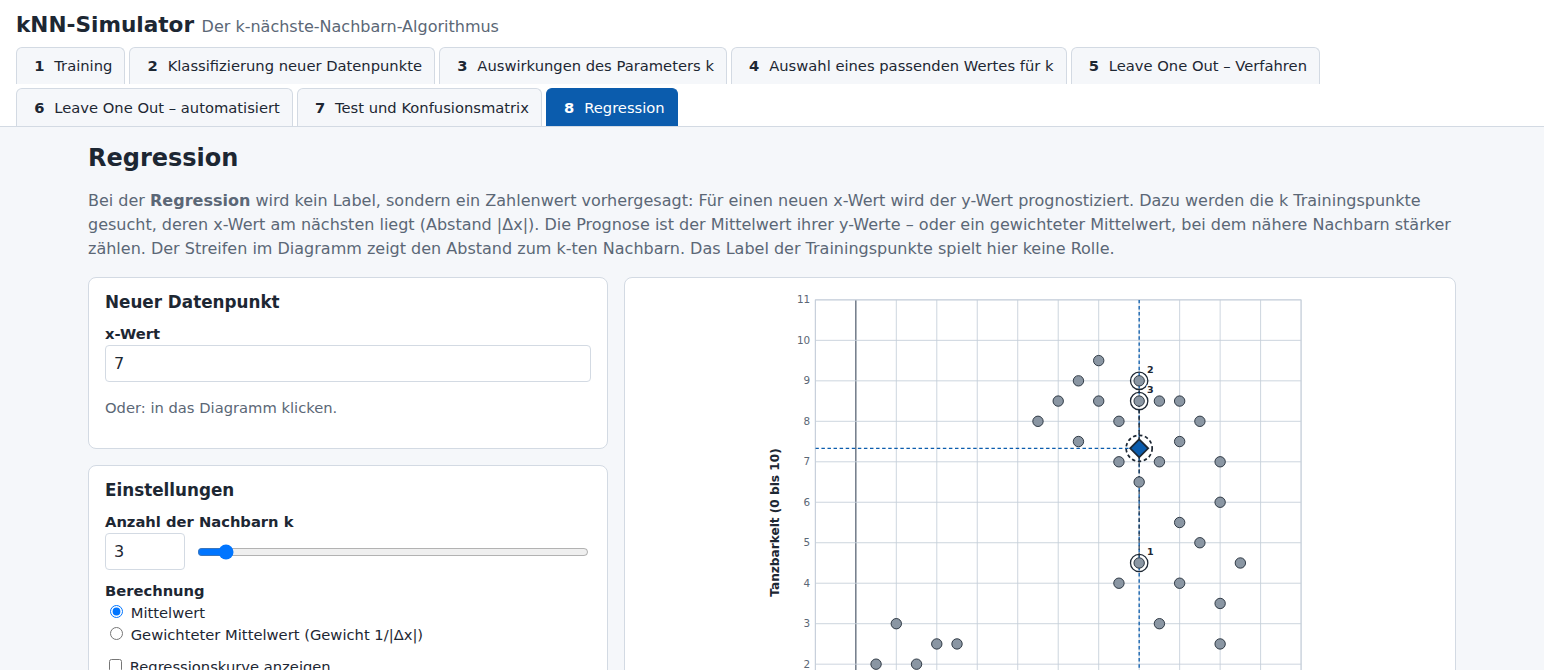
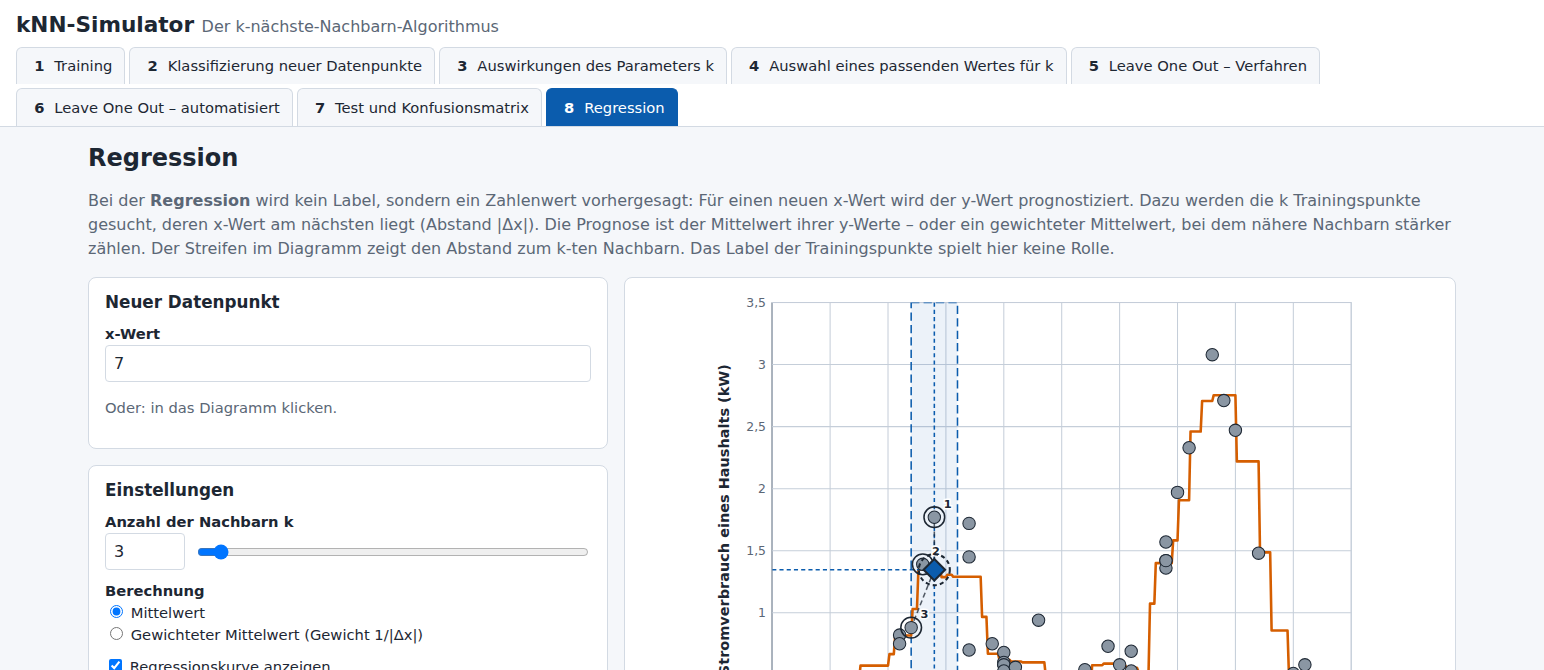
feat(knn): independent axis scales on the regression page
Page 8 uses a separate scale for x and y (view.fit in chart.js) so data
with different magnitudes fills the plot: nice tick steps (1/2/2.5/5·10^n),
non-negative axes start at 0, band width and click mapping use the x
scale. Pages 1-7 keep equal scaling. Preview image 04 now shows the
power consumption data set.

Changed region(s): [[0.4663, 0.4478, 0.8705, 1.0], [0.1244, 0.806, 0.1554, 0.8358], [0.0622, 0.9851, 0.0933, 1.0]]

diff --git a/kNN algorithm/src/js/chart.js b/kNN algorithm/src/js/chart.js
@@ -14,6 +14,9 @@
  *     die Klassen auch bei Farbsehschwäche unterscheidbar sind.
  *   - Regression (Seite 8): einheitliche Punkte, Streifen x ± |Δx| zum k-ten
  *     Nachbarn, prognostizierter Punkt, optional die Regressionskurve.
+ *     Dort sind die Achsen getrennt skaliert (view.fit), damit Daten mit
+ *     verschiedenen Größenordnungen (z. B. Uhrzeit und kW) die Fläche füllen;
+ *     Abstände werden auf dieser Seite nur in x-Richtung gemessen.
  *   - Optionale Ebenen: Metrik-Form (Kreis bei euklidischer, Raute bei
  *     Manhattan-Metrik; Radius = Abstand zum k-ten Nachbarn), Linien zu den
  *     Nachbarn (bei Manhattan als Weg entlang der Achsen), Rangnummern,
@@ -191,6 +194,84 @@
    * @param {number} minPixels - Mindestabstand.
    * @returns {number} Beschriftungsabstand.
    */
+  /** Zeichenfläche bei getrennt skalierten Achsen (viewBox-Einheiten). */
+  const FIT_WIDTH = 560;
+  const FIT_HEIGHT = 420;
+
+  /**
+   * Wählt einen „schönen“ Schritt (1, 2, 2,5 oder 5 · 10ⁿ), sodass die Spannweite
+   * in höchstens maxSteps Abschnitte zerfällt.
+   * @param {number} span - Spannweite (> 0).
+   * @param {number} maxSteps - Höchstzahl der Abschnitte.
+   * @returns {number} Schritt.
+   */
+  function niceStep(span, maxSteps) {
+    const raw = span / maxSteps;
+    const pow = Math.pow(10, Math.floor(Math.log10(raw)));
+    for (const m of [1, 2, 2.5, 5, 10]) {
+      if (m * pow >= raw) {
+        return Math.round(m * pow * 1e9) / 1e9;
+      }
+    }
+    return 10 * pow;
+  }
+
+  /**
+   * Vielfache des Schritts von min bis max (gegen Gleitkommafehler gerundet).
+   * @param {number} min - Anfang (Vielfaches von step).
+   * @param {number} max - Ende.
+   * @param {number} step - Schritt.
+   * @returns {number[]} Werte.
+   */
+  function ticks(min, max, step) {
+    const out = [];
+    const n = Math.round((max - min) / step);
+    for (let i = 0; i <= n && i <= 100; i++) {
+      out.push(Math.round((min + i * step) * 1e9) / 1e9);
+    }
+    return out;
+  }
+
+  /**
+   * Wertebereich für getrennt skalierte Achsen (Regression): je Achse ein
+   * „schöner“ Schritt für höchstens 10 Abschnitte, Grenzen auf Vielfache davon
+   * erweitert, kleiner Rand, damit Punkte nicht auf dem Rahmen liegen.
+   *
+   * @param {Array<{x:number, y:number}>} coords - Alle zu zeigenden Koordinaten.
+   * @returns {{xMin:number, xMax:number, yMin:number, yMax:number, xStep:number, yStep:number}} Wertebereich.
+   */
+  function computeFitBounds(coords) {
+    if (coords.length === 0) {
+      return { xMin: 0, xMax: 10, yMin: 0, yMax: 10, xStep: 1, yStep: 1 };
+    }
+    /**
+     * Bereich einer Achse.
+     * @param {number[]} values - Werte.
+     * @returns {{min:number, max:number, step:number}} Bereich mit Schritt.
+     */
+    function axis(values) {
+      let lo = Math.min(...values);
+      let hi = Math.max(...values);
+      if (hi - lo < 1e-9) {
+        lo -= 1;
+        hi += 1;
+      }
+      const pad = (hi - lo) * 0.04;
+      // Nichtnegative Werte (z. B. Preise, Mengen): Achse nicht unter 0 verlängern.
+      lo = lo >= 0 ? Math.max(0, lo - pad) : lo - pad;
+      hi += pad;
+      const step = niceStep(hi - lo, 10);
+      return {
+        min: Math.round(Math.floor(lo / step) * step * 1e9) / 1e9,
+        max: Math.round(Math.ceil(hi / step) * step * 1e9) / 1e9,
+        step
+      };
+    }
+    const ax = axis(coords.map((c) => c.x));
+    const ay = axis(coords.map((c) => c.y));
+    return { xMin: ax.min, xMax: ax.max, yMin: ay.min, yMax: ay.max, xStep: ax.step, yStep: ay.step };
+  }
+
   function chooseLabelStep(unit, minPixels) {
     for (const step of LABEL_STEPS) {
       if (step * unit >= minPixels) {
@@ -242,8 +323,8 @@
     toSvg(x, y) {
       const l = this.layout;
       return {
-        sx: MARGIN.left + (x - l.xMin) * l.unit,
-        sy: MARGIN.top + (l.yMax - y) * l.unit
+        sx: MARGIN.left + (x - l.xMin) * l.xUnit,
+        sy: MARGIN.top + (l.yMax - y) * l.yUnit
       };
     }
 
@@ -279,8 +360,10 @@
       const inside = p.x >= MARGIN.left && p.x <= MARGIN.left + l.width &&
         p.y >= MARGIN.top && p.y <= MARGIN.top + l.height;
       if (inside && this.options.onPlaneClick) {
-        const x = Math.round((l.xMin + (p.x - MARGIN.left) / l.unit) * 10) / 10;
-        const y = Math.round((l.yMax - (p.y - MARGIN.top) / l.unit) * 10) / 10;
+        // Gleich skaliert: auf 0,1 runden; getrennt skaliert: auf ein Zehntel des Gitterschritts.
+        const roundTo = (v, step) => Math.round(Math.round(v / step) * step * 1e6) / 1e6;
+        const x = roundTo(l.xMin + (p.x - MARGIN.left) / l.xUnit, l.fit ? l.xStep / 10 : 0.1);
+        const y = roundTo(l.yMax - (p.y - MARGIN.top) / l.yUnit, l.fit ? l.yStep / 10 : 0.1);
         this.options.onPlaneClick({ x, y });
       }
     }
@@ -319,7 +402,7 @@
       const origin = view.origin || view.query || view.prediction || null;
       const hollowName = view.hollowName || 'Validierungspunkt';
 
-      // --- Layout: gleiche Skalierung in x und y -----------------------------
+      // --- Layout: gleiche Skalierung in x und y (oder getrennt, view.fit) ------
       const coords = points.slice();
       if (view.query) {
         coords.push(view.query);
@@ -329,13 +412,19 @@
       } else if (view.band) {
         coords.push({ x: view.band.x, y: points.length > 0 ? points[0].y : 0 });
       }
-      const b = computeBounds(coords);
+      const fit = view.fit === true;
+      const b = fit ? computeFitBounds(coords) : computeBounds(coords);
       const xSpan = b.xMax - b.xMin;
       const ySpan = b.yMax - b.yMin;
       const unit = PLOT_SIZE / Math.max(xSpan, ySpan);
-      const width = xSpan * unit;
-      const height = ySpan * unit;
-      this.layout = { xMin: b.xMin, xMax: b.xMax, yMin: b.yMin, yMax: b.yMax, unit, width, height };
+      const xUnit = fit ? FIT_WIDTH / xSpan : unit;
+      const yUnit = fit ? FIT_HEIGHT / ySpan : unit;
+      const width = xSpan * xUnit;
+      const height = ySpan * yUnit;
+      this.layout = {
+        xMin: b.xMin, xMax: b.xMax, yMin: b.yMin, yMax: b.yMax, xUnit, yUnit, width, height,
+        fit, xStep: b.xStep || 1, yStep: b.yStep || 1
+      };
       const totalW = MARGIN.left + width + MARGIN.right;
       const totalH = MARGIN.top + height + MARGIN.bottom;
       svg.setAttribute('viewBox', '0 0 ' + fmt(totalW) + ' ' + fmt(totalH));
@@ -357,7 +446,10 @@
       const labelStep = chooseLabelStep(unit, 28);
       const drawMinor = unit >= 3;
       const grid = dom.svgEl('g', { class: 'grid', 'aria-hidden': 'true' });
-      for (let x = b.xMin; x <= b.xMax; x++) {
+      if (fit) {
+        this.renderFitGrid(grid, b, top, bottom, left, right);
+      }
+      for (let x = b.xMin; !fit && x <= b.xMax; x++) {
         const isMajor = x % labelStep === 0;
         if (!drawMinor && !isMajor) {
           continue;
@@ -371,7 +463,7 @@
           grid.appendChild(dom.svgEl('text', { class: 'tick', x: fmt(sx), y: fmt(bottom + 16), 'text-anchor': 'middle' }, dom.formatNumber(x)));
         }
       }
-      for (let y = b.yMin; y <= b.yMax; y++) {
+      for (let y = b.yMin; !fit && y <= b.yMax; y++) {
         const isMajor = y % labelStep === 0;
         if (!drawMinor && !isMajor) {
           continue;
@@ -403,7 +495,7 @@
       // Regression: Streifen x ± |Δx| des k-ten Nachbarn, senkrechte Linie beim x-Wert.
       if (view.band) {
         const bx = this.toSvg(view.band.x, 0).sx;
-        const half = Math.max(0, view.band.radius) * unit;
+        const half = Math.max(0, view.band.radius) * xUnit;
         if (half > 0) {
           overlay.appendChild(dom.svgEl('rect', { class: 'x-band', x: fmt(bx - half), y: fmt(top), width: fmt(2 * half), height: fmt(height) }));
         }
@@ -506,6 +598,29 @@
     }
 
     /**
+     * Gitter und Beschriftung bei getrennt skalierten Achsen (view.fit):
+     * Linien bei jedem Vielfachen des Schritts, Nulllinie hervorgehoben.
+     * @param {SVGElement} grid - Zielgruppe.
+     * @param {{xMin:number, xMax:number, yMin:number, yMax:number, xStep:number, yStep:number}} b - Wertebereich.
+     * @param {number} top - Oberer Rand der Zeichenfläche.
+     * @param {number} bottom - Unterer Rand.
+     * @param {number} left - Linker Rand.
+     * @param {number} right - Rechter Rand.
+     */
+    renderFitGrid(grid, b, top, bottom, left, right) {
+      for (const x of ticks(b.xMin, b.xMax, b.xStep)) {
+        const sx = this.toSvg(x, 0).sx;
+        grid.appendChild(dom.svgEl('line', { class: x === 0 ? 'axis-zero' : 'grid-major', x1: fmt(sx), y1: fmt(top), x2: fmt(sx), y2: fmt(bottom) }));
+        grid.appendChild(dom.svgEl('text', { class: 'tick', x: fmt(sx), y: fmt(bottom + 16), 'text-anchor': 'middle' }, dom.formatNumber(x)));
+      }
+      for (const y of ticks(b.yMin, b.yMax, b.yStep)) {
+        const sy = this.toSvg(0, y).sy;
+        grid.appendChild(dom.svgEl('line', { class: y === 0 ? 'axis-zero' : 'grid-major', x1: fmt(left), y1: fmt(sy), x2: fmt(right), y2: fmt(sy) }));
+        grid.appendChild(dom.svgEl('text', { class: 'tick', x: fmt(left - 6), y: fmt(sy + 4), 'text-anchor': 'end' }, dom.formatNumber(y)));
+      }
+    }
+
+    /**
      * Baut die Legende unterhalb des Diagramms auf.
      * @param {Object} view - Darzustellender Zustand (siehe render).
      * @param {Array} points - Datenpunkte.
@@ -597,5 +712,5 @@
     container.appendChild(svg);
   }
 
-  ns.chart = { ScatterChart, renderBarChart, markerIcon, markerPath, computeBounds };
+  ns.chart = { ScatterChart, renderBarChart, markerIcon, markerPath, computeBounds, computeFitBounds };
 })(window.KNN = window.KNN || {});

diff --git a/kNN algorithm/src/js/pages/regression.js b/kNN algorithm/src/js/pages/regression.js
@@ -6,7 +6,8 @@
  *   - Eingabe eines x-Werts über das Eingabefeld oder Klick ins Diagramm.
  *   - Einstellung von k (Zahlenfeld + Schieberegler, 1 … Anzahl Trainingspunkte).
  *   - Berechnung: Mittelwert oder gewichteter Mittelwert (Gewicht 1/|Δx|).
- *   - Diagramm: alle Trainingspunkte einheitlich (das Label spielt keine Rolle),
+ *   - Diagramm mit getrennt skalierten Achsen (füllt die Fläche auch bei verschiedenen
+ *     Größenordnungen von x und y); alle Trainingspunkte einheitlich (das Label spielt keine Rolle),
  *     Streifen x ± |Δx| des k-ten Nachbarn, Nachbarn mit Rangnummer,
  *     prognostizierter Punkt; optional die Regressionskurve.
  *   - Ergebnis: prognostizierter y-Wert, Rechenweg, Tabelle der Nachbarn.
@@ -132,7 +133,7 @@
   /** Zeichnet die Seite neu. */
   function render() {
     const points = ds.getPoints();
-    const base = Object.assign(common.baseView(), { uniform: true });
+    const base = Object.assign(common.baseView(), { uniform: true, fit: true });
     if (points.length === 0) {
       common.showNotice(ui.notice, 'Es sind noch keine Trainingsdaten vorhanden.', true);
       kControl.setMax(1);
@@ -148,7 +149,7 @@
     const prediction = result ? { x: state.x, y: result.y } : null;
     let curve = null;
     if (state.showCurve) {
-      const b = ns.chart.computeBounds(prediction ? points.concat([prediction]) : points);
+      const b = ns.chart.computeFitBounds(prediction ? points.concat([prediction]) : points);
       curve = knn.regressionCurve(points, k, weighting, b.xMin, b.xMax, CURVE_STEPS);
     }
     if (!result) {

diff --git a/kNN algorithm/README.md b/kNN algorithm/README.md
@@ -57,6 +57,7 @@ Zwischen den Seiten kann jederzeit gewechselt werden. Änderungen der Trainingsd
   - **Gewichteter Mittelwert:** ŷ = Σ(wᵢ·yᵢ) / Σwᵢ mit wᵢ = 1 / |Δxᵢ|. Haben Nachbarn denselben x-Wert (|Δx| = 0), zählen nur diese, jeweils mit gleichem Gewicht.
   - Bei gleichem Abstand zählt die Reihenfolge der Eingabe (mit Hinweis an der Grenze des k-ten Nachbarn).
   - Die Regressionskurve zeigt die Prognose für jeden x-Wert des Diagramms (beim Mittelwert eine Treppenfunktion).
+  - Im Diagramm sind die Achsen getrennt skaliert, damit Daten mit verschiedenen Größenordnungen (z. B. Uhrzeit und kW) die Fläche füllen. Abstände werden auf dieser Seite nur in x-Richtung gemessen. Auf den Seiten 1 bis 7 bleiben die Achsen gleich skaliert, weil dort Abstände in beiden Richtungen zählen.
 
 ## Aufbau
 
@@ -205,7 +206,7 @@ Vor jeder Veröffentlichung wird das Paket mit nicht veröffentlichten Entwicklu
 - der SCORM-Wrapper von der Fassung des SQL-Pakets abweicht (abgesehen von Namensraum und Kommentaren);
 - im Ordner des Teilprojekts etwas anderes als `src/`, `preview/`, `testdata/` und `README.md` liegt.
 
-**Automatisierte Tests** (72) im Browser, mit simulierter SCORM-Schnittstelle:
+**Automatisierte Tests** (74) im Browser, mit simulierter SCORM-Schnittstelle:
 - Algorithmus mit Handrechnungen: Metriken, Gleichstände, gleiche Abstände, Leave One Out; schrittweise Auswertung für alle k im Abgleich mit der Einzelklassifizierung; Regression (Mittelwert, gewichtet, |Δx| = 0, Kurve);
 - Datenzustand: Zahlen- und Labelprüfung, stabile IDs, Grenzen, Validierungsauswahl, getrennte Testdaten;
 - Parser, DEFLATE und ZIP-Grenzen; Import aller Szenario- und Regressionsdateien sowie von XLSX- und ODS-Dateien;
